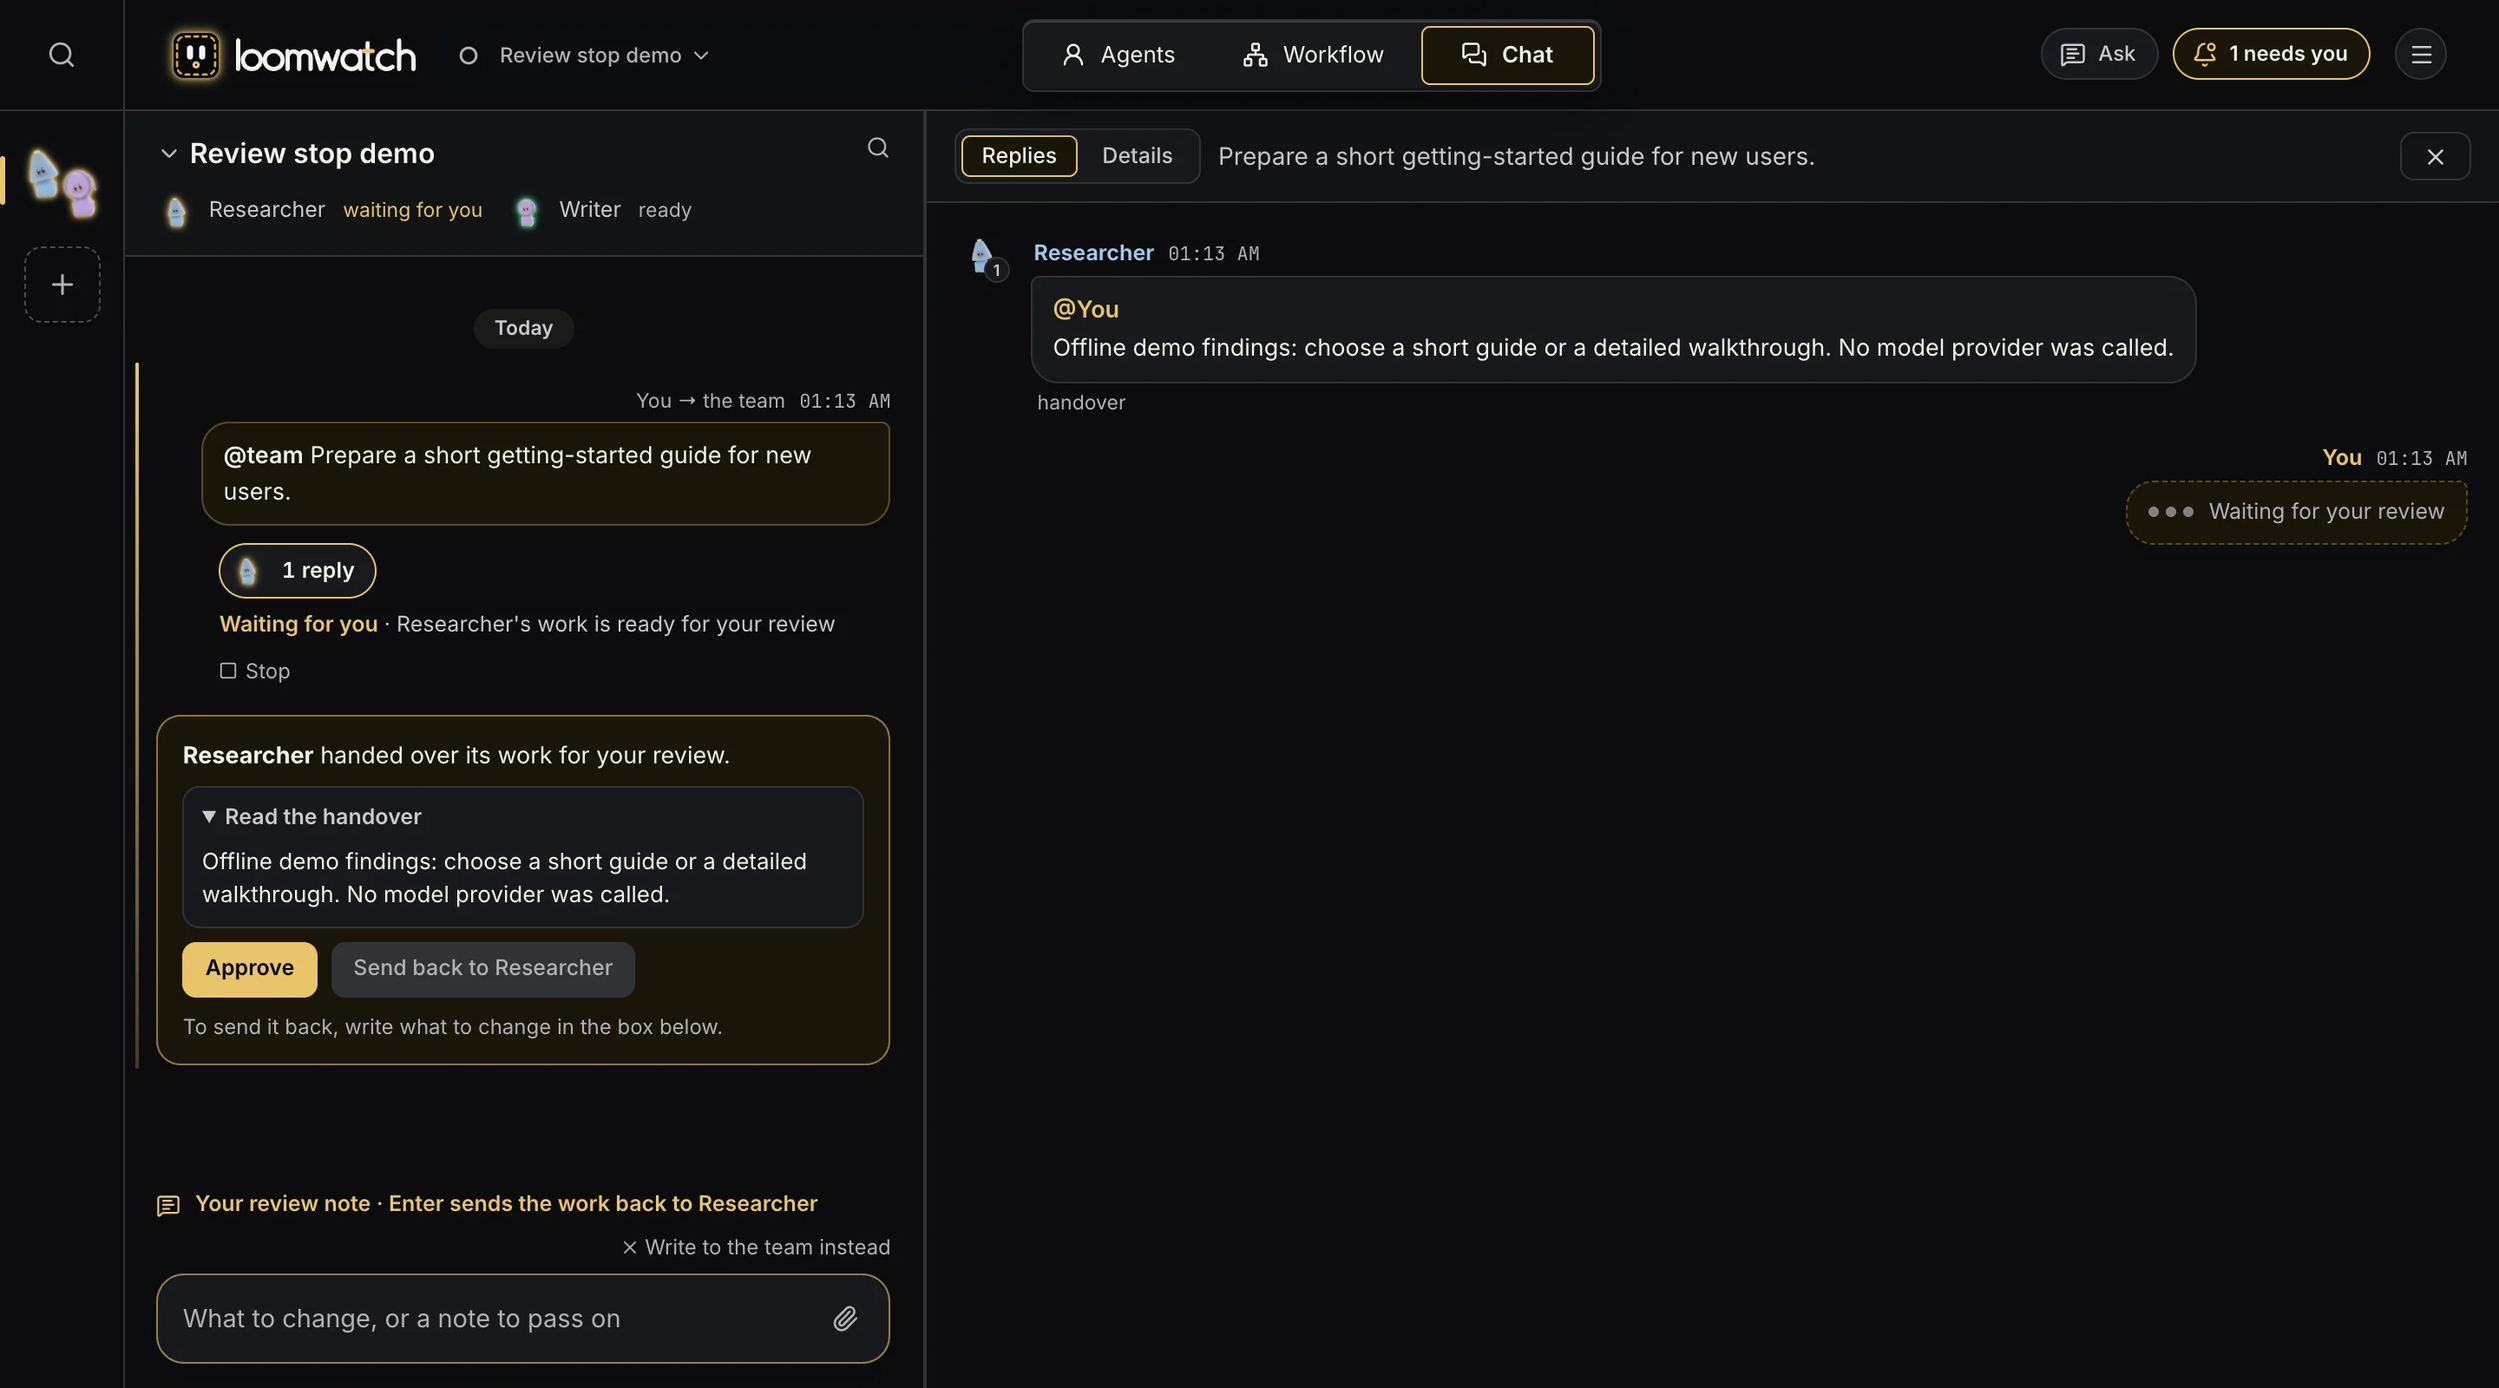
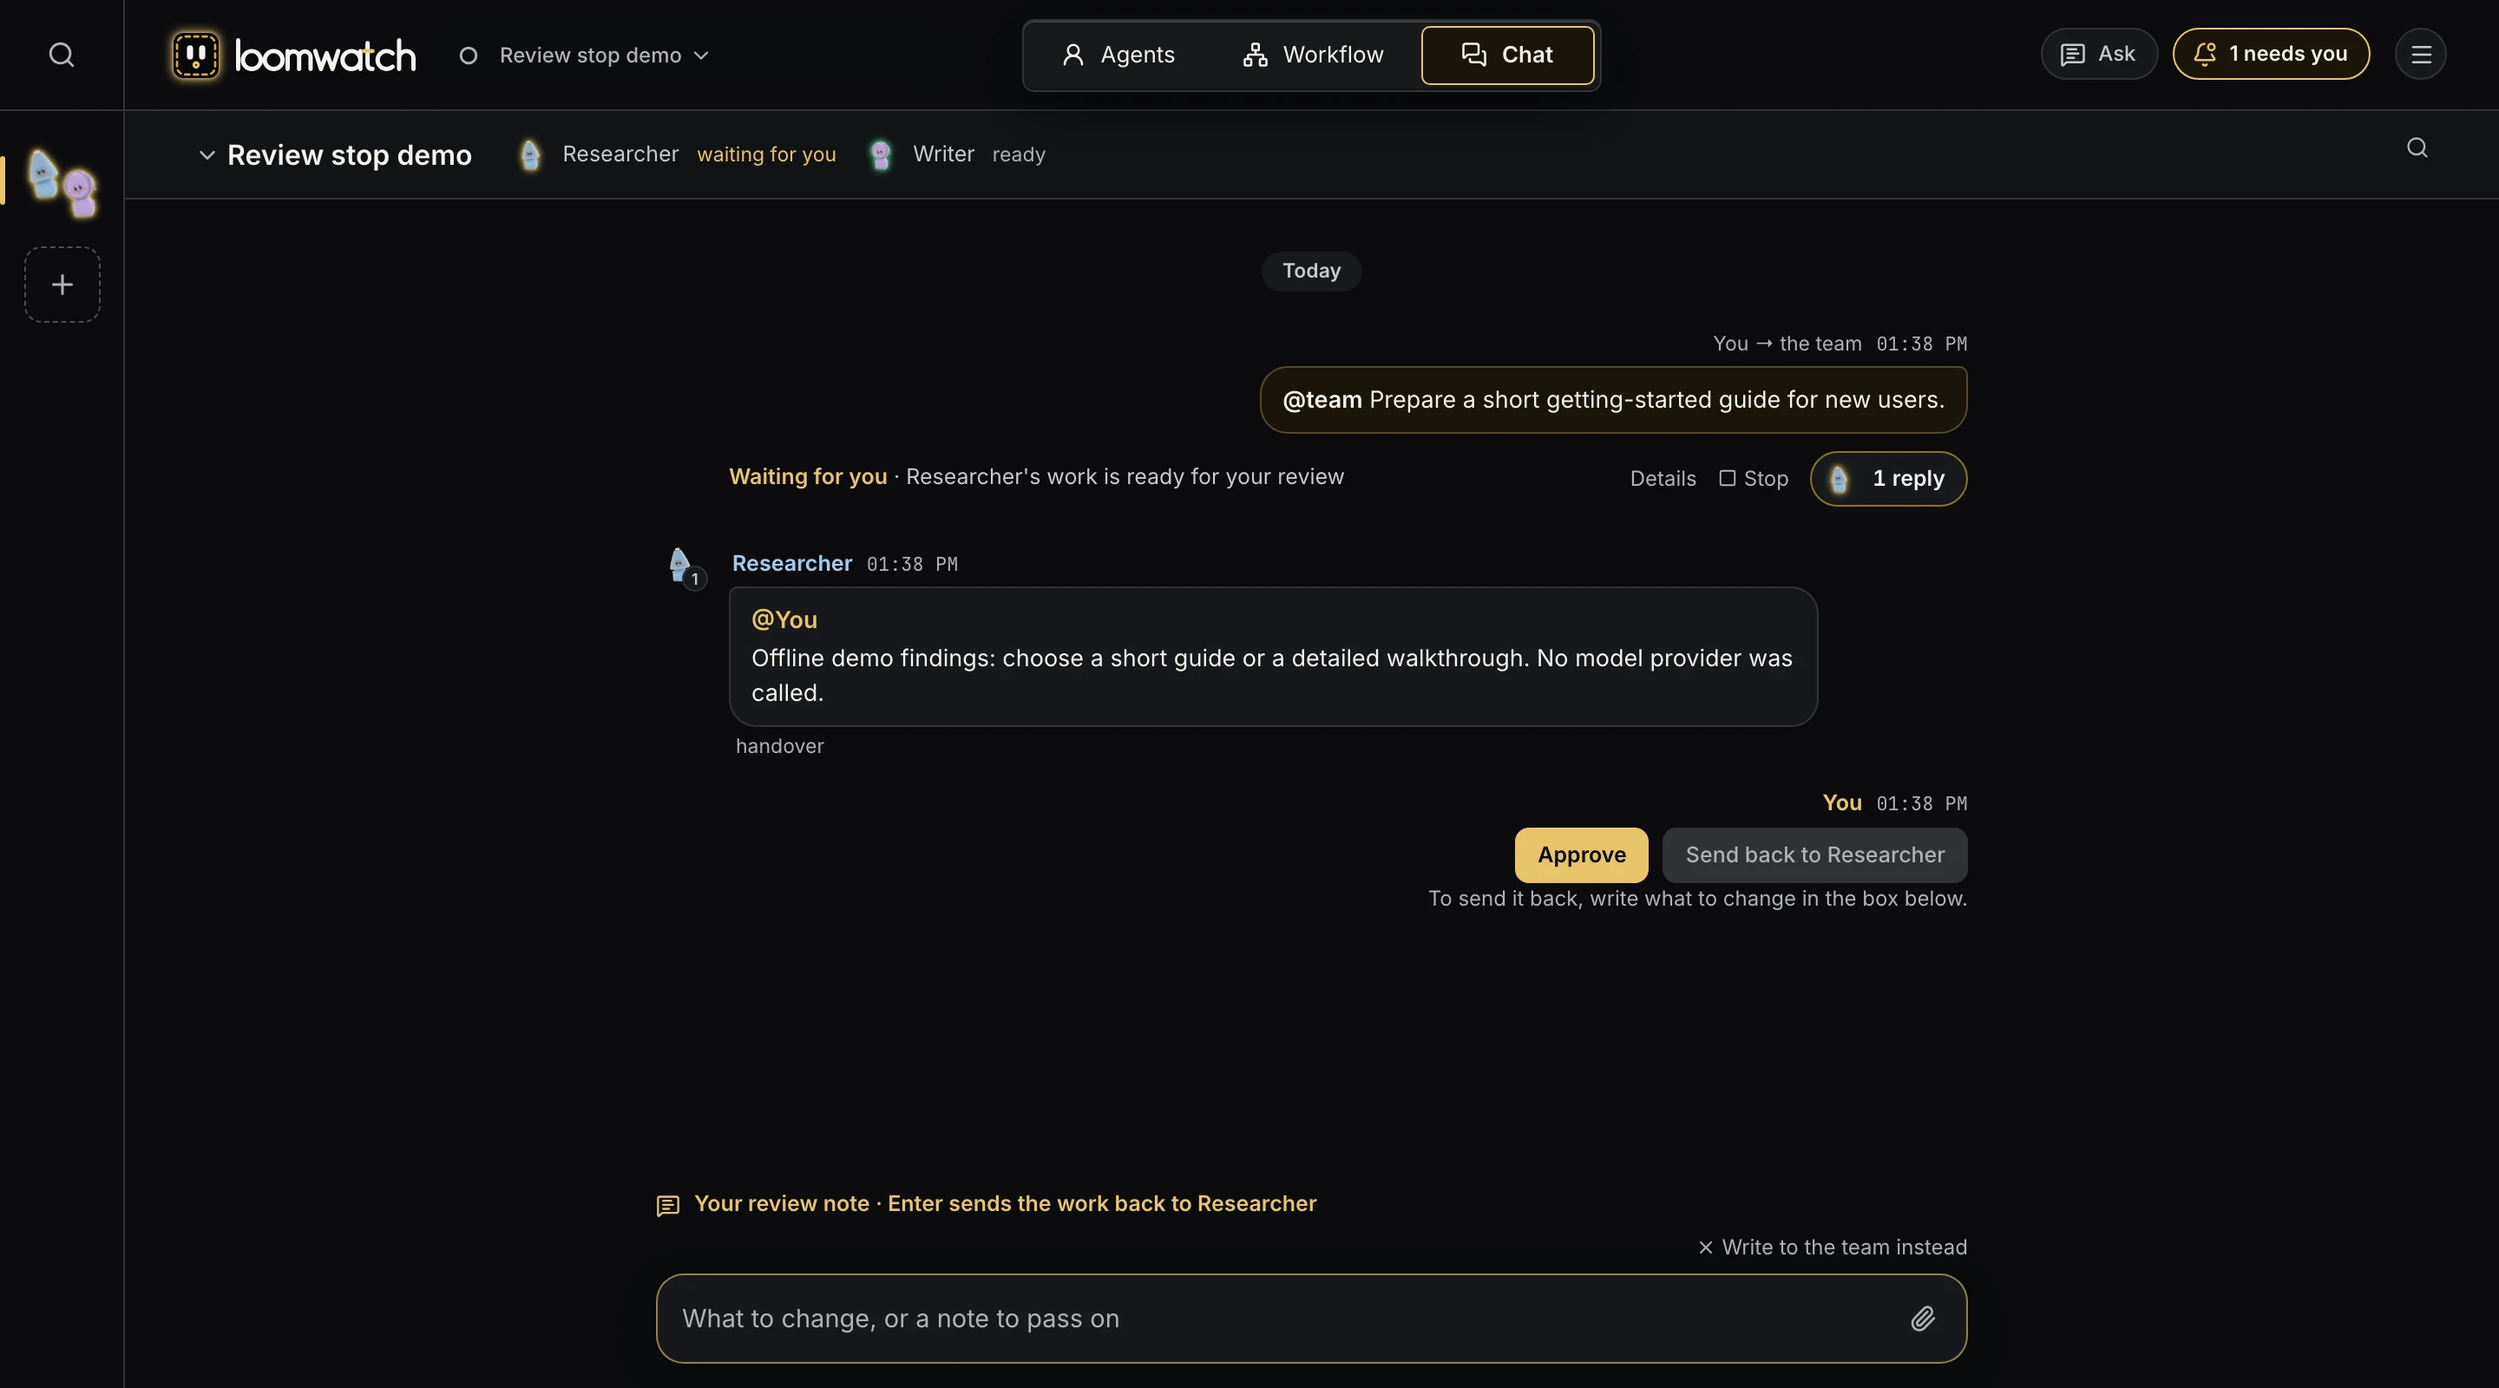
docs(readme): the README, the review guide and the landing page show the agents' replies in the chat (#305)
After #304 the pictures of the team chat still showed the Replies tab beside the chat. Retaken on
a trial with the offline demo team (and the OpenRouter stand-in, holding Researcher at work, for
the watch picture), each scene on a fresh state, nothing spent:

- site/assets/app/chat-*.webp, used by the README, the review guide and the landing page's Chat
  screen: the review moment, the line under the request with Details, Stop and "1 reply" on the
  right, and Researcher's handover with Approve and Send back under it, in the chat.
- docs/assets/readme/step-review-*.png and step-watch-*.png, at the width of the other step
  pictures, now smaller files (palette PNGs).
- docs/assets/readme/demo.gif: ask the team, the review waits on the handover in the chat,
  approve with a note, Writer's answer arrives. Built from lossless frames, so it is 307 KB
  against 672 KB.
- Their alt texts and captions say what the pictures show, in the app's own words; README section
  03 now says the line under your message names who has the work, and section 04 that Approve and
  Send back are under the handover. On the landing page only the Chat screen's alt text and caption
  changed (owner's word).

Checked: newcomer-reviewer read every picture against its words; its fixes are in.

diff --git a/site/main.js b/site/main.js
@@ -2709,7 +2709,7 @@
     home: { w: 2880, h: 1600, alt: 'LoomWatch Home: first Your desk, where the Researcher brought work for you to check, with a gold Review button. Below, your projects as rooms, each with its team\u2019s agents at their desks in the order work moves: in SUTD final project the Researcher is drawn faint because it is at your desk, then the gold ring where you check; in Bakery website the Writer is working; Morning news runs every day at 8:00 AM; in My thesis the Writer is drawn faint because it is working in the Website team. Then a New project tile, and an agent in no project yet.', cap: 'Home: your desk first, with whoever waits for you, then a room for each project, with its agents at their desks.' },
     agents: { w: 2880, h: 1600, alt: "LoomWatch's agent workbench for Writer: a sentence saying Writer thinks with Claude Opus 5.5, has one skill and asks before it may act, a mint-green figure at its desk with labels for its keys, its skills, the model it thinks with, its job and its tray, and on the right the blocks that make it, starting with Name and Instructions with a check of what good instructions say.", cap: 'An agent on its workbench: the figure shows what it has, the blocks beside it change it, and the sentence on top says what it all adds up to.' },
     workflow: { w: 2880, h: 1600, alt: 'LoomWatch Workflow for a daily tech digest: the team as one sentence, Every day at 9:00 AM and whenever you ask, Gatherer collects what is needed, then Reader does its part, and finally Writer writes the answer, each with its figure; on the left your saved agents ready to add; on the canvas a schedule trigger at 9 AM wired to Gatherer, Reader and Writer, and the team response.', cap: 'Workflow: your agents wired in order, read back as one sentence, with your saved agents one click away on the left.' },
-    chat: { w: 2880, h: 1600, alt: "LoomWatch Chat: you ask the team for a short getting-started guide. Under your message, Researcher's figure, 1 reply and Waiting for you, then a card with Researcher's handover and Approve. On the right, the Replies tab shows what Researcher handed over, with a Details tab next to it.", cap: "Chat: what needs you waits in the chat, the agents' replies open beside it, and every step is a tab away in Details." },
+    chat: { w: 2880, h: 1600, alt: "LoomWatch Chat: you ask the team for a short getting-started guide. Under your message, Waiting for you, with Details, Stop and Researcher's figure with 1 reply on the right; below, in the chat, what Researcher handed over to you, with Approve and Send back to Researcher under it.", cap: "Chat: the agents' replies and what needs you, together in the chat, and every step a click away in Details." },
   }
   const realImg = $('#real-img')
   function showScreen(name, focus = false) {

diff --git a/site/review-every-step/index.html b/site/review-every-step/index.html
@@ -87,9 +87,9 @@
       <li><strong>Send back</strong>: write what should change in the box at the bottom, then click <strong>Send back</strong> or press Enter. The agent revises it and asks you again.</li>
     </ul>
     <figure class="shot">
-      <img class="dark" src="../assets/app/chat-dark.webp" width="2880" height="1600" alt="A team's Chat tab: the request @team Prepare a short getting-started guide for new users; under it, Researcher's figure with 1 reply and Waiting for you: Researcher's work is ready for your review; then a card with Researcher's handover, Approve and Send back to Researcher. Beside the chat, the Replies tab shows Researcher's handover and your review still to come, with a Details tab next to it." loading="lazy" decoding="async">
-      <img class="light" src="../assets/app/chat-light.webp" width="2880" height="1600" alt="A team's Chat tab: the request @team Prepare a short getting-started guide for new users; under it, Researcher's figure with 1 reply and Waiting for you: Researcher's work is ready for your review; then a card with Researcher's handover, Approve and Send back to Researcher. Beside the chat, the Replies tab shows Researcher's handover and your review still to come, with a Details tab next to it." loading="lazy" decoding="async">
-      <figcaption>The handover waits in the chat. Its replies open beside it, and Details, a tab away, shows how the work was made.</figcaption>
+      <img class="dark" src="../assets/app/chat-dark.webp" width="2880" height="1600" alt="A team's Chat tab: the request @team Prepare a short getting-started guide for new users; under it, Waiting for you: Researcher's work is ready for your review, with Details, Stop and Researcher's figure with 1 reply on the right. Below, in the chat, Researcher's handover to you, then Approve and Send back to Researcher, and the message box ready for your review note." loading="lazy" decoding="async">
+      <img class="light" src="../assets/app/chat-light.webp" width="2880" height="1600" alt="A team's Chat tab: the request @team Prepare a short getting-started guide for new users; under it, Waiting for you: Researcher's work is ready for your review, with Details, Stop and Researcher's figure with 1 reply on the right. Below, in the chat, Researcher's handover to you, then Approve and Send back to Researcher, and the message box ready for your review note." loading="lazy" decoding="async">
+      <figcaption>The handover waits in the chat, with Approve and Send back under it. Details, on the line under your message, shows how the work was made.</figcaption>
     </figure>
     <p>Nothing moves on until you decide. LoomWatch's own helper, Ask, can draft a note for you, but only you click <strong>Approve</strong> or <strong>Send back</strong>.</p>
   </section>

diff --git a/README.md b/README.md
@@ -24,9 +24,9 @@
 </p>
 
 <p align="center">
-  <img src="docs/assets/readme/demo.gif" width="880" alt="The offline demo in LoomWatch: the three-step team on the Workflow canvas, then its chat. You write @team Prepare a short getting-started guide for new users. Under it, Researcher's figure, 1 reply and Waiting for you; below, a card with Researcher's handover, Approve and Send back to Researcher. Clicking 1 reply opens Replies beside the chat, with what Researcher handed over. You type Keep it to one page and press Approve with your note. Your approval and note stay in the chat, Replies shows them passed on to Writer, and Writer's answer appears, marked Nothing flagged.">
+  <img src="docs/assets/readme/demo.gif" width="880" alt="The offline demo in LoomWatch: the three-step team on the Workflow canvas, then its chat. You write @team Prepare a short getting-started guide for new users and press Start. Under it, Waiting for you, with Details, Stop and Researcher's figure with 1 reply on the right; below, in the chat, Researcher's handover to you, and under it Approve and Send back to Researcher. You type Keep it to one page and press Approve with your note. Your note shows in the chat, marked approved, passed on to Writer, and Writer's answer appears, marked Nothing flagged.">
   <br>
-  <sub>A team in its chat: ask it, open its replies, approve with a note, read the answer.</sub>
+  <sub>A team in its chat: ask it, read what its agents say, approve with a note, read the answer.</sub>
 </p>
 
 **Install on a Mac** (macOS 11 or newer; nothing else to install first): download
@@ -98,7 +98,7 @@ anything runs.
 <td valign="middle">
 <picture>
   <source media="(prefers-color-scheme: dark)" srcset="docs/assets/readme/step-watch-dark.png">
-  <img src="docs/assets/readme/step-watch-light.png" alt="The team's chat while it works: the request @team Prepare a short getting-started guide for new users, then a note for Researcher, Assume readers have never used AI before, which waits for Researcher's current step to end. Under them, one line: a Details button with Researcher's figure glowing blue, then Researcher is working, and Stop.">
+  <img src="docs/assets/readme/step-watch-light.png" alt="The team's chat while it works: the request @team Prepare a short getting-started guide for new users, then a note for Researcher, Assume readers have never used AI before, which waits for Researcher's current step to end. Under them, one line: Researcher is working, then on the right Stop and a Details button with Researcher's figure glowing blue.">
 </picture>
 </td>
 <td valign="middle">
@@ -106,11 +106,11 @@ anything runs.
 ### 03 &nbsp;Chat: ask, and watch
 
 Each team has one chat. Write **@team** and the job in plain words: _"@team Prepare today's AI and
-tech news digest, and link every claim."_ Each stage starts when the one before it hands over;
+tech news digest, and link every claim."_ Each step starts when the one before it hands over;
 under your message their faces glow as they work, and what they tell each other appears there
 as they say it. A note you write while an agent
-works joins its next turn, each agent's status is said in words beside its face (_"Writing its
-reply"_, _"Waiting for you"_), and every handover lands on a **live timeline** in Details that you
+works joins its next turn, the line under your message says in words who has the work
+(_"Researcher is working"_, _"Waiting for you"_), and every handover lands on a **live timeline** in Details that you
 can drag back to replay. Paste a screenshot or drop files on the chat to send them with your words;
 drop a folder and it becomes a source for the team.
 
@@ -122,14 +122,14 @@ drop a folder and it becomes a source for the team.
 ### 04 &nbsp;Review
 
 A **You** step pauses the team, and the handover waits in the chat with **Approve** and **Send
-back** on it. Approve it, or write what should change and send it back. **Nothing moves on until
+back** under it. Approve it, or write what should change and send it back. **Nothing moves on until
 you decide**, and the finished answer comes with the evidence to check before you use it.
 
 </td>
 <td valign="middle">
 <picture>
   <source media="(prefers-color-scheme: dark)" srcset="docs/assets/readme/step-review-dark.png">
-  <img src="docs/assets/readme/step-review-light.png" alt="The review in the chat: Researcher's figure with 1 reply, then Waiting for you: Researcher's work is ready for your review, and Stop. Below, a card: Researcher handed over its work for your review, the handover open to read, and Approve or Send back to Researcher, with the hint To send it back, write what to change in the box below.">
+  <img src="docs/assets/readme/step-review-light.png" alt="The review in the chat: the request @team Prepare a short getting-started guide for new users; under it, Waiting for you: Researcher's work is ready for your review; below that, on the right, Details, Stop and Researcher's figure with 1 reply. Below, Researcher's handover to you, and under it Approve or Send back to Researcher, with the hint To send it back, write what to change in the box below.">
 </picture>
 </td>
 </tr>
@@ -397,9 +397,9 @@ add, connect and rename agents to match. To run a team on a schedule, ask
 <td align="center">
 <picture>
   <source media="(prefers-color-scheme: dark)" srcset="site/assets/app/chat-dark.webp">
-  <img src="site/assets/app/chat-light.webp" alt="A team's Chat tab: the request @team Prepare a short getting-started guide for new users; under it, Researcher's figure with 1 reply and Waiting for you: Researcher's work is ready for your review; then a card with Researcher's handover, Approve and Send back to Researcher. Beside the chat, the Replies tab shows Researcher's handover and your review still to come, with a Details tab next to it.">
+  <img src="site/assets/app/chat-light.webp" alt="A team's Chat tab: the request @team Prepare a short getting-started guide for new users; under it, Waiting for you: Researcher's work is ready for your review, with Details, Stop and Researcher's figure with 1 reply on the right. Below, in the chat, Researcher's handover to you, then Approve and Send back to Researcher, and the message box ready for your review note.">
 </picture>
-<br><sub><strong>Chat.</strong> Your review waits in the chat, the agents' replies open beside it, and every step is a tab away in Details.</sub>
+<br><sub><strong>Chat.</strong> Your review waits in the chat, under what the agents said, and Details opens every step beside the chat.</sub>
 </td>
 </tr>
 </table>
